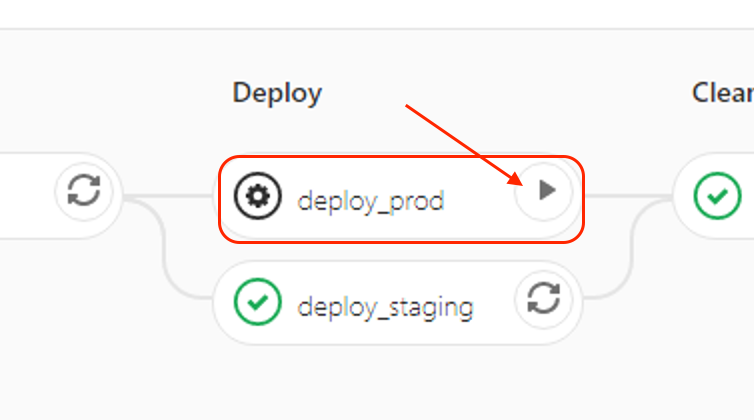
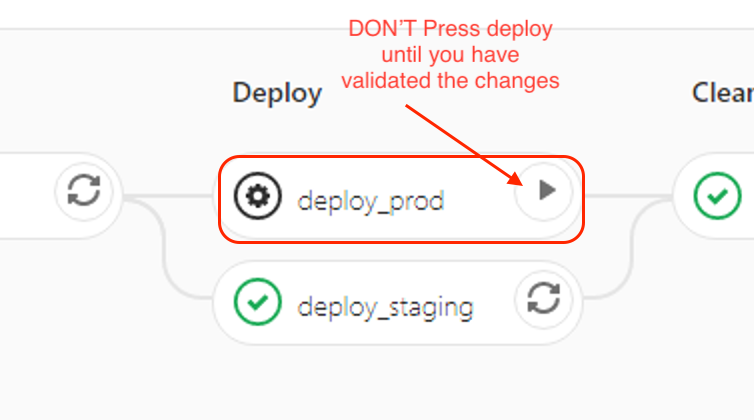
doc fixes

Changed region(s): [[0.4576, 0.031, 0.7626, 0.2167]]

diff --git a/2.0.deploying-nginx-plus-web-server-with-cicd/2.0.deploying-nginx-plus-web-server-with-cicd.md b/2.0.deploying-nginx-plus-web-server-with-cicd/2.0.deploying-nginx-plus-web-server-with-cicd.md
@@ -146,8 +146,29 @@ the next exercise
     ![A screenshot of Pipeline status](./media/image12.png)
 
 12. As part of our Continuous Delivery, deployment to Staging is
-    automatic, but we have purposely injected the requirement for a
-    human trigger for deployment to Production
+    automatic, and Production is manual: we have purposely injected 
+    the requirement for a human trigger for deployment to Production
+
+    ![A screenshot of Pipeline status](./media/image13.png)
+
+13. Browse to the server bookmarked as `STAGING LB - Appster` under 
+    the **"Staging Servers"** bookmark folder to see the new web app 
+    code pushed to our Staging Server.
+
+    > **Note:** Ignore the bookmarks `STAGING LB - Appster` and 
+    `PROD LB - Appster` for now - we will set this up in a later exercise.
+
+    Open the webpage in a **New incognito window (Ctrl + Shift + N)** 
+    to bypass browser cache and view changes.
+
+    ![A screenshot appster web app](./media/image15.png)
+
+    **After new code commit:**
+
+    ![A screenshot appster web app](./media/image18.png)
+
+14. If our code changes pushed to staging are successful and the changes are 
+    validated to be correct, we can can now deploy to Production:
 
     Under the `DEPLOY` stage, we have the option to deploy to Production
     manually. Go ahead and click on the little **Play** button that is on
@@ -155,36 +176,16 @@ the next exercise
     deploy our new Docker image to Production, wih. the new code showing the
     updated image, `iphone_x.png`.
 
-    ![A screenshot of Pipeline status](./media/image13.png)
-
     ![A screenshot of Pipeline status](./media/image14.png)
 
-13. Browse to the server bookmarked as `STAGING LB - Appster` under the **"Staging Servers"**
-    bookmark folder to see the new web app code pushed to our Staging
-    Server.
-
-    If our deployment to Production were also successful you would also see
-    the new web app code now deployed on **all four web servers** in
-    Production; we can see that on any Web Servers bookmarked as `PROD WEB - Appster-red`, `PROD WEB - Appster-yellow`, `PROD WEB - Appster-green` and `PROD WEB - Appster-blue` under
-    the **Production Servers** bookmark folder. 
-
-    **(Note:** Ignore the bookmarks `STAGING LB - Appster` and `PROD LB - Appster` for now - we will set this up in a later exercise).
-
-    You may need to reload the webpage if you currently have the webpage
-    open, or open the webpage in a **New incognito window (Ctrl + Shift +
-    N)** to bypass browser cache and view changes.
-
-    ![A screenshot appster web app](./media/image15.png)
+15. If our deployment to Production is successful you would now see
+    the new web app code now deployed on **all four Production web servers**; 
+    we can see that on any Web Servers bookmarked as `PROD WEB - Appster-red`, 
+    `PROD WEB - Appster-yellow`, `PROD WEB - Appster-green` and `PROD WEB - Appster-blue` 
+    under the **Production Servers** bookmark folder. 
 
     ![A screenshot appster web app](./media/image16.png)
-
-    **Before:**
-
-    ![A screenshot appster web app](./media/image17.png)
-
-    **After new code commit:**
-
-    ![A screenshot appster web app](./media/image18.png)
+    ![A screenshot appster web app](./media/image26.png)
 
 ### Task 2. Made new code commit, push changes using command line tools, and deploy
 
